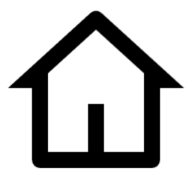
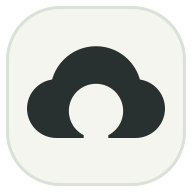
feat(brand): adopt symmetric cloud garden identity

diff --git a/components/home/HomeTopbar.vue b/components/home/HomeTopbar.vue
@@ -47,7 +47,7 @@ onMounted(refresh)
 <template>
   <header class="home-topbar">
     <NuxtLink class="home-brand" to="/" :aria-label="`${appName}首页`">
-      <span class="home-brand__mark"><span class="i-carbon-home" /></span>
+      <img class="home-brand__mark" src="/brand-mark.svg" alt="">
       <span><strong>{{ appName }}</strong><small>可编辑智能家园</small></span>
     </NuxtLink>
 
@@ -97,27 +97,27 @@ onMounted(refresh)
 <style scoped>
 .sr-only { position: absolute; width: 1px; height: 1px; overflow: hidden; clip: rect(0, 0, 0, 0); }
 .home-topbar { display: grid; grid-template-columns: 1fr auto 1fr; align-items: center; gap: 18px; min-height: 76px; padding: 12px 24px; }
-.home-brand { display: inline-flex; align-items: center; justify-self: start; gap: 11px; color: #27334d; text-decoration: none; }
-.home-brand__mark { display: grid; place-items: center; width: 42px; height: 42px; border: 1px solid rgba(151, 170, 217, 0.48); border-radius: 14px; background: linear-gradient(145deg, #ffffff, #e9efff); box-shadow: 0 7px 18px rgba(83, 105, 163, 0.16); color: #6f83d7; font-size: 20px; }
+.home-brand { display: inline-flex; align-items: center; justify-self: start; gap: 11px; color: var(--brand-ink); text-decoration: none; }
+.home-brand__mark { display: block; width: 42px; height: 42px; filter: drop-shadow(0 7px 9px rgba(40, 49, 47, 0.18)); }
 .home-brand > span:last-child { display: grid; gap: 1px; }
 .home-brand strong { font-size: 17px; letter-spacing: -0.02em; }
-.home-brand small { color: #8590a7; font-size: 10px; }
-.home-template-select { position: relative; display: flex; align-items: center; gap: 8px; min-width: 178px; padding: 9px 12px; border: 1px solid rgba(164, 180, 218, 0.6); border-radius: 13px; background: rgba(255, 255, 255, 0.78); box-shadow: 0 7px 22px rgba(74, 91, 135, 0.09); color: #60709c; }
-.home-template-select select { width: 100%; border: 0; outline: 0; appearance: none; background: transparent; color: #34415f; font: inherit; font-size: 13px; font-weight: 650; cursor: pointer; }
+.home-brand small { color: var(--brand-muted); font-size: 10px; }
+.home-template-select { position: relative; display: flex; align-items: center; gap: 8px; min-width: 178px; padding: 9px 12px; border: 1px solid var(--brand-outline); border-radius: 13px; background: var(--brand-surface-raised); box-shadow: 0 7px 22px rgba(40, 49, 47, 0.08); color: var(--brand-muted); }
+.home-template-select select { width: 100%; border: 0; outline: 0; appearance: none; background: transparent; color: var(--brand-ink); font: inherit; font-size: 13px; font-weight: 650; cursor: pointer; }
 .home-template-select > span:last-child { font-size: 12px; pointer-events: none; }
 .home-topbar__actions { display: flex; align-items: center; justify-self: end; gap: 10px; }
-.home-sync { display: inline-flex; align-items: center; gap: 7px; color: #74809a; font-size: 12px; font-weight: 600; white-space: nowrap; }
-.home-sync__dot { width: 7px; height: 7px; border-radius: 50%; background: #9aa6bc; box-shadow: 0 0 0 4px rgba(154, 166, 188, 0.12); }
-.home-sync[data-status="synced"] .home-sync__dot { background: #61cda8; box-shadow: 0 0 0 4px rgba(97, 205, 168, 0.14); }
-.home-sync[data-status="syncing"] .home-sync__dot { background: #7598ec; animation: sync-pulse 1s ease-in-out infinite; }
+.home-sync { display: inline-flex; align-items: center; gap: 7px; color: var(--brand-muted); font-size: 12px; font-weight: 600; white-space: nowrap; }
+.home-sync__dot { width: 7px; height: 7px; border-radius: 50%; background: #9ca49f; box-shadow: 0 0 0 4px rgba(105, 113, 109, 0.12); }
+.home-sync[data-status="synced"] .home-sync__dot { background: var(--brand-secondary); box-shadow: 0 0 0 4px rgba(104, 123, 103, 0.14); }
+.home-sync[data-status="syncing"] .home-sync__dot { background: var(--brand-warm); animation: sync-pulse 1s ease-in-out infinite; }
 .home-sync[data-status="error"] .home-sync__dot { background: #e68a96; }
-.home-history { display: flex; overflow: hidden; border: 1px solid rgba(164, 180, 218, 0.5); border-radius: 11px; background: rgba(255, 255, 255, 0.72); }
-.home-history button { display: grid; place-items: center; width: 34px; height: 34px; border: 0; background: transparent; color: #60709c; cursor: pointer; }
-.home-history button + button { border-left: 1px solid rgba(164, 180, 218, 0.38); }
+.home-history { display: flex; overflow: hidden; border: 1px solid var(--brand-outline); border-radius: 11px; background: var(--brand-surface-raised); }
+.home-history button { display: grid; place-items: center; width: 34px; height: 34px; border: 0; background: transparent; color: var(--brand-muted); cursor: pointer; }
+.home-history button + button { border-left: 1px solid var(--brand-outline); }
 .home-history button:disabled { cursor: default; opacity: 0.32; }
-.home-edit-button { display: inline-flex; align-items: center; gap: 7px; min-height: 38px; padding: 0 14px; border: 1px solid rgba(132, 151, 207, 0.62); border-radius: 12px; background: rgba(255, 255, 255, 0.78); color: #52638f; font: inherit; font-size: 12px; font-weight: 700; cursor: pointer; }
-.home-edit-button.is-active { border-color: #7c93e5; background: #7488d7; color: white; box-shadow: 0 8px 20px rgba(94, 116, 196, 0.26); }
-.home-avatar { display: grid; place-items: center; width: 38px; height: 38px; border: 2px solid white; border-radius: 50%; background: linear-gradient(145deg, #9cb0ed, #ad98d8); box-shadow: 0 5px 14px rgba(82, 95, 142, 0.22); color: white; font-size: 12px; font-weight: 800; text-decoration: none; }
+.home-edit-button { display: inline-flex; align-items: center; gap: 7px; min-height: 38px; padding: 0 14px; border: 1px solid var(--brand-outline); border-radius: 12px; background: var(--brand-surface-raised); color: var(--brand-ink); font: inherit; font-size: 12px; font-weight: 700; cursor: pointer; }
+.home-edit-button.is-active { border-color: var(--brand-primary); background: var(--brand-primary); color: white; box-shadow: 0 8px 20px rgba(var(--brand-focus-rgb), 0.28); }
+.home-avatar { display: grid; place-items: center; width: 38px; height: 38px; border: 2px solid var(--brand-surface); border-radius: 50%; background: linear-gradient(145deg, #687b67, #899485); box-shadow: 0 5px 14px rgba(40, 49, 47, 0.2); color: white; font-size: 12px; font-weight: 800; text-decoration: none; }
 .home-avatar.is-pending { opacity: 0.65; }
 @keyframes sync-pulse { 50% { opacity: 0.35; transform: scale(0.78); } }
 @media (max-width: 840px) {

diff --git a/styles/css-vars.css b/styles/css-vars.css
@@ -1,11 +1,43 @@
 :root {
-  --foreground-rgb: 0, 0, 0;
-  --background-start-rgb: 214, 219, 220;
-  --background-end-rgb: 255, 255, 255;
+  color-scheme: light;
+  --brand-primary: #28312f;
+  --brand-primary-strong: #18201e;
+  --brand-primary-soft: #e1e6de;
+  --brand-secondary: #687b67;
+  --brand-warm: #c59a55;
+  --brand-ink: #28312f;
+  --brand-muted: #69716d;
+  --brand-surface: #f4f5ef;
+  --brand-surface-raised: rgba(250, 251, 247, 0.86);
+  --brand-outline: rgba(104, 123, 103, 0.34);
+  --brand-focus-rgb: 40, 49, 47;
+  --brand-page-background:
+    radial-gradient(circle at 18% 0%, rgba(210, 219, 209, 0.74), transparent 31%),
+    radial-gradient(circle at 88% 8%, rgba(197, 154, 85, 0.08), transparent 22%),
+    linear-gradient(155deg, #fafbf7 0%, #f0f2ec 55%, #f6f4ee 100%);
+  --foreground-rgb: 40, 49, 47;
+  --background-start-rgb: 240, 242, 236;
+  --background-end-rgb: 250, 251, 247;
 }
 
 html.dark {
-  --foreground-rgb: 255, 255, 255;
-  --background-start-rgb: 0, 0, 0;
-  --background-end-rgb: 0, 0, 0;
+  color-scheme: dark;
+  --brand-primary: #52665b;
+  --brand-primary-strong: #94a696;
+  --brand-primary-soft: #26332d;
+  --brand-secondary: #839982;
+  --brand-warm: #d2a95f;
+  --brand-ink: #f1f3ed;
+  --brand-muted: #aab3ab;
+  --brand-surface: #151c19;
+  --brand-surface-raised: rgba(31, 40, 36, 0.88);
+  --brand-outline: rgba(131, 153, 130, 0.34);
+  --brand-focus-rgb: 131, 153, 130;
+  --brand-page-background:
+    radial-gradient(circle at 18% 0%, rgba(82, 102, 91, 0.34), transparent 32%),
+    radial-gradient(circle at 88% 8%, rgba(197, 154, 85, 0.07), transparent 24%),
+    linear-gradient(155deg, #1a211f 0%, #151b19 58%, #1d201c 100%);
+  --foreground-rgb: 241, 243, 237;
+  --background-start-rgb: 21, 28, 25;
+  --background-end-rgb: 26, 33, 31;
 }

diff --git a/components/home/HomeExperience.vue b/components/home/HomeExperience.vue
@@ -228,7 +228,7 @@ onUnmounted(() => {
 </template>
 
 <style scoped>
-.home-experience { display: grid; grid-template-rows: auto minmax(0, 1fr) auto; min-height: 100%; overflow: hidden; background: radial-gradient(circle at 18% 0%, rgba(222, 232, 255, 0.95), transparent 30%), linear-gradient(155deg, #f8faff 0%, #edf2fc 55%, #f7f4fb 100%); color: #303b55; }
+.home-experience { display: grid; grid-template-rows: auto minmax(0, 1fr) auto; min-height: 100%; overflow: hidden; background: var(--brand-page-background); color: var(--brand-ink); }
 .home-stage { position: relative; display: grid; align-items: center; min-height: 0; padding: 0 22px 14px; }
 .home-stage__control { position: absolute; z-index: 12; top: 50%; right: 42px; transform: translateY(-50%); }
 .home-notice { position: absolute; z-index: 16; bottom: 28px; left: 50%; padding: 9px 14px; border: 1px solid rgba(255, 255, 255, 0.72); border-radius: 999px; background: rgba(46, 57, 83, 0.82); box-shadow: 0 10px 30px rgba(38, 48, 75, 0.24); color: white; font-size: 11px; transform: translateX(-50%); backdrop-filter: blur(12px); }

diff --git a/nuxt.config.ts b/nuxt.config.ts
@@ -71,14 +71,14 @@ export default defineNuxtConfig({
       },
       viewport: 'width=device-width,initial-scale=1',
       link: [
-        { rel: 'icon', href: '/favicon.ico', sizes: 'any' },
-        { rel: 'icon', type: 'image/svg+xml', href: '/home-4-line.svg' },
+        { rel: 'icon', type: 'image/svg+xml', href: '/brand-mark.svg' },
+        { rel: 'icon', type: 'image/png', href: '/favicon-32x32.png', sizes: '32x32' },
         { rel: 'apple-touch-icon', href: '/apple-touch-icon.png' },
       ],
       meta: [
         { name: 'viewport', content: 'width=device-width, initial-scale=1' },
         { name: 'description', content: appDescription },
-        { name: 'theme-color', content: '#f4f7fd' },
+        { name: 'theme-color', content: '#f4f5ef' },
         { name: 'apple-mobile-web-app-status-bar-style', content: 'black-translucent' },
       ],
     },

diff --git a/config/pwa.ts b/config/pwa.ts
@@ -14,8 +14,8 @@ export const pwa: ModuleOptions = {
     short_name: appName,
     description: appDescription,
     lang: 'zh-CN',
-    background_color: '#f4f7fd',
-    theme_color: '#f4f7fd',
+    background_color: '#f4f5ef',
+    theme_color: '#f4f5ef',
     icons: [
       {
         src: 'pwa-192x192.png',

diff --git a/layouts/home.vue b/layouts/home.vue
@@ -7,6 +7,6 @@
 <style scoped>
 .home-layout {
   min-height: 100dvh;
-  background: radial-gradient(circle at 18% 0%, rgba(222, 232, 255, 0.95), transparent 30%), linear-gradient(155deg, #f8faff 0%, #edf2fc 55%, #f7f4fb 100%);
+  background: var(--brand-page-background);
 }
 </style>

diff --git a/styles/index.scss b/styles/index.scss
@@ -21,7 +21,7 @@ input {
 }
 
 :where(a, button, select, input):focus-visible {
-  outline: 3px solid rgba(83, 112, 197, 0.38);
+  outline: 3px solid rgba(var(--brand-focus-rgb), 0.42);
   outline-offset: 3px;
 }
 

diff --git a/brand-guidelines.md b/brand-guidelines.md
@@ -1,0 +1,33 @@
+# 云之彼端视觉规范
+
+## 标志概念
+
+主标志由左右对称的三瓣云与中央月洞门组成：
+
+- 云代表家园原生存在于云端。
+- 月洞门代表进入个人空间的入口，也是园林中的框景结构。
+- 对称中轴表达安静、秩序与长期陪伴感。
+
+优先使用 `public/brand-mark.svg`。应用商店或系统蒙版环境使用
+`public/brand-mark-maskable.svg`，不要在标志内部添加文字、描边或设备连接符号。
+
+## 主题色
+
+| 角色 | 名称 | 色值 | 用途 |
+| --- | --- | --- | --- |
+| 主色 | 黛瓦墨 | `#28312F` | 品牌标识、主操作、标题 |
+| 辅色 | 苔庭青 | `#687B67` | 选中、云端可用、空间状态 |
+| 暖色 | 桂影金 | `#C59A55` | 灯光、欢迎状态、少量高光 |
+| 正文 | 黛瓦墨 | `#28312F` | 主文字和深色细节 |
+| 底色 | 宣云白 | `#F4F5EF` | 页面底色和应用图标底板 |
+| 边界 | 湖石灰 | `#DCE1D8` | 边框、分隔和禁用状态 |
+
+主题变量集中在 `styles/css-vars.css`。组件应优先引用语义变量，不直接复制色值。
+
+## 使用原则
+
+- 大面积使用宣云白，让黛瓦墨承担识别和主操作。
+- 苔庭青只用于空间状态与轻量强调，不使用高饱和亮绿。
+- 桂影金用于家的温度感，不与错误或警告状态混用。
+- 标志四周至少保留其宽度 `1/6` 的净空；小于 `20px` 时仅使用完整方形图标。
+- 正式标志保持平面纯色，不添加渐变、玻璃高光或投影。
